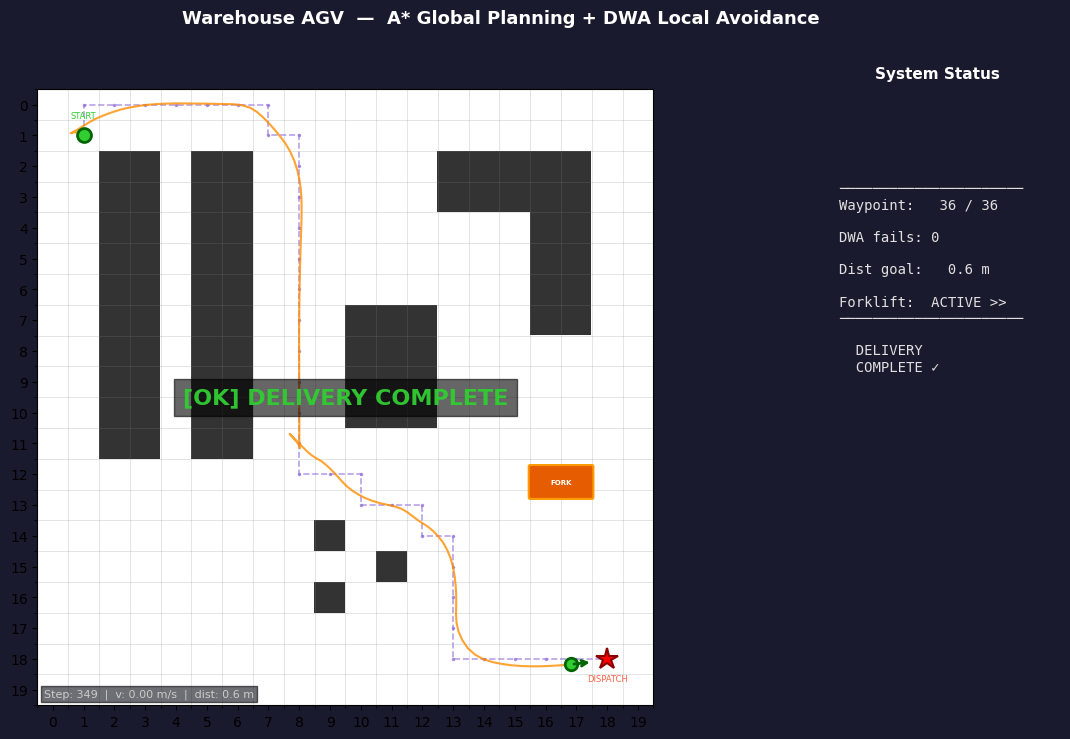
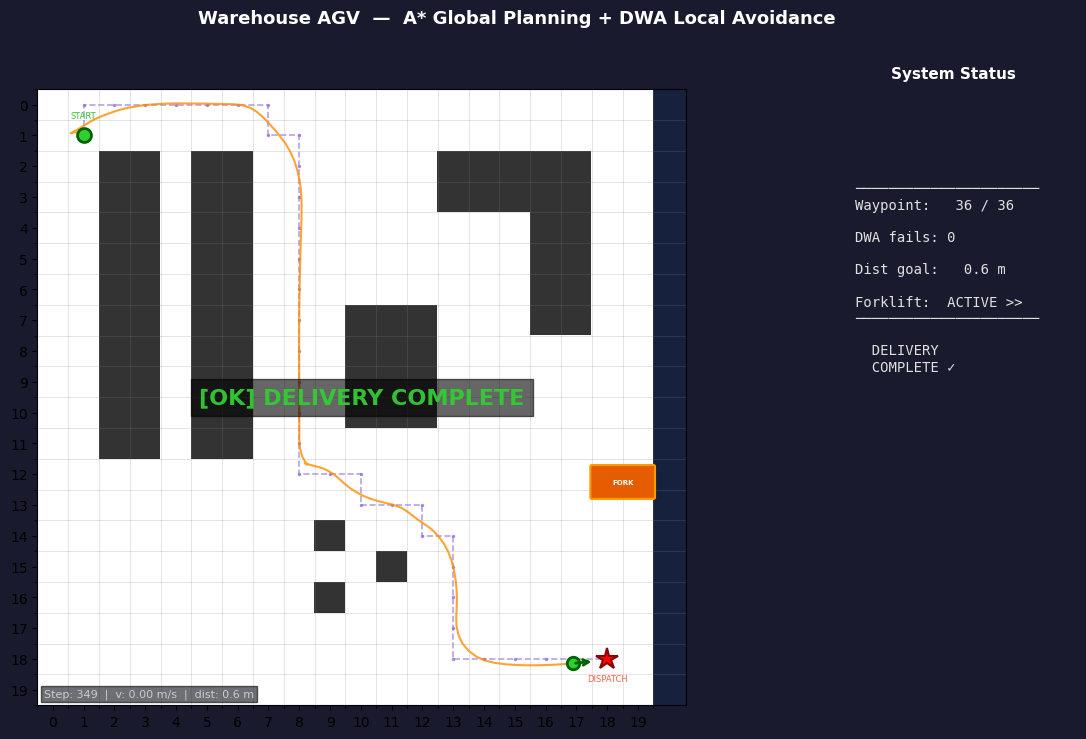
Update README and test another example

diff --git a/examples/warehouse_simulation.py b/examples/warehouse_simulation.py
@@ -111,7 +111,7 @@ WAREHOUSE_CONFIG = {
     # Dynamic obstacle — forklift crossing the main aisle at row=12
     # Row 12 is clear: picking shelves were shortened to rows 2-11 (Option C)
     'forklift_start': (12, 0),      # enters from the left warehouse wall
-    'forklift_activation_step': 1, # frame at which the forklift appears
+    'forklift_activation_step': 5, # frame at which the forklift appears
     'forklift_speed_steps': 7, # frames per 1-cell move (slow, realistic)
 
     # Animation
@@ -119,8 +119,8 @@ WAREHOUSE_CONFIG = {
     'interval_ms': 80,              # ≈ 12 fps
 
     # Output paths
-    'gif_path': 'images/warehouse_simulation_3.gif',
-    'png_path': 'images/warehouse_simulation_final_3.png',
+    'gif_path': 'images/warehouse_simulation_2.gif',
+    'png_path': 'images/warehouse_simulation_final_2.png',
     'gif_fps': 10,
     'gif_dpi': 100,
 }
@@ -166,7 +166,7 @@ def build_warehouse_env() -> GridWorld:
     # ── Scattered loading pallets  (1×1 each) ───────────────────────────
     env.add_obstacle(14, 9)
     env.add_obstacle(15, 11)
-    env.add_obstacle(9, 8)
+    # env.add_obstacle(9, 8)
     env.add_obstacle(16, 9)
 
     return env

diff --git a/README.md b/README.md
@@ -1,76 +1,137 @@
-# Autonomous Mobile Robot Navigation System
+# WarehouseNav
 
-🤖 A comprehensive AGV/AMR navigation system featuring multiple path planning algorithms, reinforcement learning, and dynamic obstacle avoidance.
+**Autonomous robot navigation system with global/local planner architecture, simulated LiDAR, and real-time obstacle avoidance.**
 
-## 🎯 Project Overview
-
-This project implements a complete autonomous navigation system for mobile robots (AGV/AMR) in warehouse and manufacturing environments. It compares classical planning algorithms (BFS, DFS, A*, RRT) with reinforcement learning approaches, and includes realistic considerations like sensor noise, battery consumption, and dynamic obstacles.
-
-## ✨ Features
-
-- **Multiple Planning Algorithms**: BFS, DFS, A*, RRT
-- **Reinforcement Learning**: Q-Learning with adaptive behavior
-- **Dynamic Obstacle Avoidance**: DWA (Dynamic Window Approach)
-- **Sensor Simulation**: LIDAR, IMU with realistic noise models
-- **Control Systems**: Path following, PID control
-- **Performance Benchmarking**: Compare algorithms across scenarios
-- **Interactive Visualizations**: See the robot in action
-
-## 🚀 Quick Start
-```bash
-# Clone the repository
-git clone https://github.com/davidequattrocchi10/autonomous-mobile-robot.git
-cd autonomous-mobile-robot
-
-# Install dependencies
-pip install -r requirements.txt
-
-# Run a demo
-python examples/compare_algorithms.py
-```
-
-## 📊 Project Status
-
-- [x] Project structure
-- [X] Environment simulation
-- [X] Path planning algorithms
-- [ ] Reinforcement learning
-- [ ] Dynamic obstacle avoidance
-- [ ] Sensor simulation
-- [ ] Control systems
-- [ ] Full system integration
-
-## 🗂 Project Structure
-```
-autonomous-mobile-robot/
-├── src/              # Core source code
-├── notebooks/        # Jupyter notebooks for experiments
-├── tests/            # Unit tests
-├── docs/             # Documentation
-├── scenarios/        # Test scenarios
-└── examples/         # Quick demos
-```
-
-## 📚 Documentation
-
-See the [docs](./docs) folder for detailed documentation:
-- [Architecture](./docs/architecture.md)
-- [Algorithms](./docs/algorithms.md)
-- [Getting Started](./docs/getting_started.md)
-
-## 🤝 Contributing
-
-This is a learning project, but feedback and suggestions are welcome!
-
-## 📄 License
-
-MIT License - see [LICENSE](LICENSE) file for details
-
-## 🙏 Acknowledgments
-
-Built as a comprehensive learning project to understand autonomous robot navigation from first principles.
+![Warehouse simulation](images/warehouse_simulation_3.gif)
+![Warehouse simulation](images/warehouse_simulation_2.gif)
+*AGV navigating active warehouse — A\* global path + DWA local avoidance + forklift detection via simulated LiDAR*
 
 ---
 
-**Status**: 🚧 Under Active Development
+## What This Project Demonstrates
+
+- **Global/local planner architecture** — mirrors ROS `move_base` (A\* global + DWA local, same division of responsibility)
+- **Algorithm comparison** — BFS, DFS, A\*, RRT, Q-Learning side-by-side on identical environments
+- **Physical robot simulation** — differential drive kinematics, Euler integration, odometry noise
+- **Sensor simulation** — step-wise ray-casting LiDAR with Gaussian noise, robot-relative beam frame
+
+---
+
+## Architecture
+
 ```
+LiDAR scan ──────────────────────┐
+                                  ▼
+A* global planner ──► waypoints ──► DWA local planner ──► (v, ω) ──► Robot model
+     ↑                                                                    │
+     │                                                                    ▼
+  static map                                                     pose (x, y, θ)
+```
+
+The global planner (A\*) computes a full collision-free path once at startup.
+The local planner (DWA) runs every timestep: it reads the LiDAR scan, samples
+hundreds of short trajectories, scores them on heading/clearance/velocity, and
+outputs the best `(v, ω)` command while chasing the current A\* waypoint.
+
+---
+
+## Quick Start
+
+```bash
+git clone https://github.com/davidequattrocchi10/autonomous-mobile-robot.git
+cd autonomous-mobile-robot
+pip install -e .
+
+python examples/warehouse_simulation.py   # A* + DWA warehouse demo
+pytest tests/                            
+```
+
+---
+
+## Algorithm Comparison
+
+> Benchmark table coming soon — running controlled trials across identical scenarios.
+
+| Algorithm  | Path Length | Nodes Explored | Time (ms) | Use Case |
+|------------|-------------|----------------|-----------|----------|
+| BFS        | —           | —              | —         | Shortest path, unweighted grid |
+| DFS        | —           | —              | —         | Memory-efficient, non-optimal |
+| A\*        | —           | —              | —         | Optimal, heuristic-guided |
+| RRT        | —           | —              | —         | High-dimensional / continuous spaces |
+| Q-Learning | —           | —              | —         | Unknown environment, learns online |
+
+---
+
+## Project Structure
+
+```
+src/
+  environment/
+    grid_world.py       # 2D occupancy grid, rendering, obstacle placement
+    obstacle_manager.py # Dynamic obstacles: RANDOM_WALK, LINEAR, WAYPOINT modes
+  planning/
+    graph_search.py     # BFS, DFS, A* (clearance-aware step cost)
+    rrt.py              # RRT sampling-based planner
+  learning/
+    q_learning.py       # Q-table, ε-greedy, Bellman update
+  robot/
+    robot.py            # Differential drive kinematics, odometry noise
+  sensors/
+    lidar.py            # Ray-casting LiDAR, N beams, Gaussian noise
+  control/
+    dwa.py              # Dynamic Window Approach local planner
+  utils/
+    conversions.py      # continuous ↔ grid coordinate conversion (single source of truth)
+```
+
+---
+
+## Key Technical Decisions
+
+### 1. Clearance-aware A\* via multi-source BFS
+
+**Problem:** Standard A\* produces paths that hug obstacle walls.
+A physical robot with 0.2 m radius navigating 0.5 m cells risks collisions from localization error when the planned path has zero clearance.
+
+**Decision:** Add a `robot_radius / clearance_metres` penalty to A\*'s step cost.
+A multi-source BFS (`_compute_clearance_map`) seeds all obstacle cells at distance 0 and floods outward — computing exact Manhattan clearance for every cell in one O(W×H) pass.
+
+---
+
+### 2. Global + local planner split
+
+**Problem:** DWA alone aimed at the distant goal. When an obstacle blocked the direct path, every trajectory either collided or pointed away — the robot oscillated indefinitely.
+
+**Decision:** A\* computes the full path once; DWA chases nearby A\* waypoints using a distance-based lookahead (Pure Pursuit). Advancing to the furthest waypoint within radius R means the robot starts turning earlier, producing wider arcs that don't clip corners.
+
+**Why it works:** Same architecture as ROS `move_base` (global_planner + local_planner). DWA is not a complete navigation system on its own — it needs a global planner to give it reachable subgoals.
+
+---
+
+### 3. Y-downward coordinate convention throughout
+
+**Problem:** GridWorld uses `(row, col)` with row increasing downward. Continuous space could follow standard math (y-up) or match the grid.
+
+**Decision:** Y-downward everywhere: `θ=π/2` faces down, positive ω is clockwise.
+
+**Why it works:** The y-flip conversion `row = grid_height - int(y/cell_size) - 1` would appear in LiDAR, DWA, robot update, and visualization — four places where a missed flip creates a silent wrong-direction bug. A single consistent convention eliminates the entire class. Also matches `matplotlib.imshow` natively.
+
+---
+
+## Test Coverage
+
+```
+tests/test_environment.py   26 tests
+tests/test_planning.py      28 tests
+tests/test_rrt.py           25 tests
+tests/test_qlearning.py     31 tests
+tests/test_robot.py         41 tests
+tests/test_lidar.py         25 tests
+tests/test_dwa.py           41 tests
+─────────────────────────────────────
+Total                      217 tests  ✓ all pass
+```
+
+---
+
+🚧 **Active development** — benchmark table and emergency replanning scenario in progress
